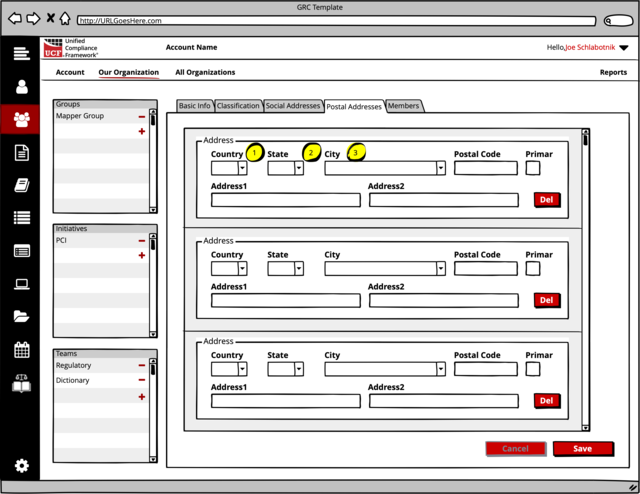
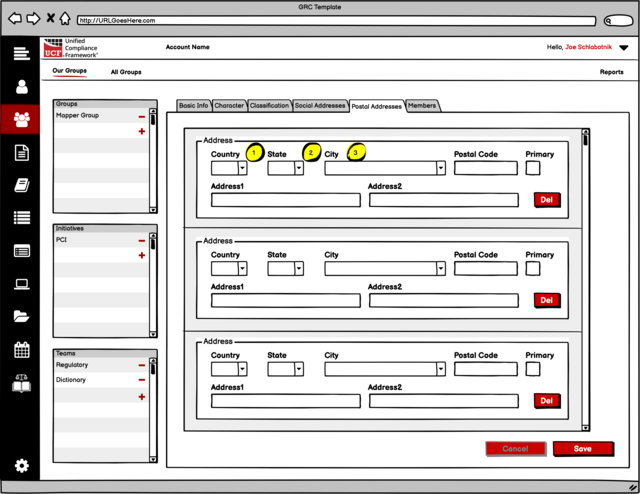
GitBook: [master] 5 pages and 23 assets modified

diff --git a/the-elements-of-compliance-for-developers/introduction/managing-groups.md b/the-elements-of-compliance-for-developers/introduction/managing-groups.md
@@ -1,0 +1,89 @@
+# Managing Groups
+
+All wireframes for this portion of the Compliance as Code project are available at:
+
+[https://balsamiq.cloud/srj76i4/pmjrirq](https://balsamiq.cloud/srj76i4/pmjrirq)
+
+The scope of this portion of the project is to allow _the administrator_ of a known account and to fill out additional information about the groups assigned to the organization and to other organizations.
+
+When filling out information about the _local_ groups _assigned to an account_, nothing will be filled out. For those Groups that are public, mof the information about the organization will be derived from the initial sign-up process. During the sign-up process, we query Clearbit and other APIs to glean information about the organization. That information is then returned through the API and should be displayed in the various fields.
+
+## Schema
+
+The schema for a group is listed here: [http://grcschema.org/](http://grcschema.org/Group)[Group](http://grcschema.org/Group).
+
+The ERD for working with a group looks like the diagram that follows:
+
+![Group ERD](../../.gitbook/assets/0%20%287%29.png)
+
+## Navigation
+
+Main navigation for group is accessed _below_ the group icon \(1\) as shown in the following diagram.
+
+Within the group section of the shell, sub-navigation must include capabilities to switch between _this account’s groups_ and _all groups_ \(2\).
+
+![Group subnavigation](../../.gitbook/assets/1%20%285%29.png)
+
+## Basic Info
+
+Basic information for the group will _only_ exist from the Clearbit and other queries that were performed when the group was created _if_ this is a public group and not a group associated with an account.
+
+![Basic Info](../../.gitbook/assets/2%20%285%29.png)
+
+1. **Core Metadata** should exist and is automatically created.
+
+2. **Legal Name** will exist _if Clearbit data was found_. If not, this should be disabled as account-related groups do not have a legal name.
+
+3. **Names** – this is an array for additional names. Additional names can be added to manually or they can be removed _for public groups_. Account-related groups are allowed _only a single name_.
+
+4. **Social Addresses** – these will exist if they were found in Clearbit data. If not, they can be manually added or removed _for public groups_. Account-related groups _do not have social addresses_ and therefore this should be disable for them.
+
+5. **Organizational Hierarchy** – How this is handled is different for public and account-related groups.
+
+* For public groups, a parent group can be selected _from existing public groups or organizations_.
+* For account-related groups, a parent group can be selected _from existing account-related groups_.
+
+Any child of _this_ organization will be listed in the subsidiary list.
+
+## Character
+
+_This only applies to account-related groups_. This should be disabled for public groups.
+
+![Group Character](../../.gitbook/assets/3%20%285%29.png)
+
+1. **Group Character settings** – these are options settings wherein the user selects a number from 1 to 10 for each of the four characterizations. Selections from 1-5 will create a _formal_ setting and 6-10 will create an _informal_ setting. There are images associated with each of the formal and informal settings for each of the four characterizations.
+
+2. **Organizational Character Index** – this is an optional field to be filled out for the _the account_. If it was filled out at the account level, that information will show up here.
+
+## Social Addresses
+
+_Some_ information about social addresses will be returned by Clearbit and others _if this is a public group_. The rest can be added manually _for public groups only_. If this is an account-related group _this should be disabled._
+
+![Social Information](../../.gitbook/assets/4%20%285%29.png)
+
+1. **Email Addresses** – only addresses _from the same domain as the organization, or those in the domains list_ can be added to the Email Address array. They can be removed at will.
+
+2. **Telephone Numbers** – can be manually added or removed at will.
+
+3. **Domains** – can be added and removed at will.
+
+## Postal Addresses
+
+The primary postal address was already created during the sign-up process _if this is a public group_. The rest can be added manually _for public groups only_. If this is an account-related group _this should be disabled._
+
+![Postal addresses](../../.gitbook/assets/5%20%283%29.png)
+
+When filled out, they must be filled out in the order of _country_, _state_, _city_, and then the rest of the information. This is because _country_, _state_, and _city_ are all pop-ups, one deriving its list from the other.
+
+1. **Country** **API** – [https://short.grcschema.org/API-Country List](https://short.grcschema.org/API-Country%20List)
+
+2. **State API** - [https://short.grcschema.org/API-State List](https://short.grcschema.org/API-State%20List3)
+
+[3](https://short.grcschema.org/API-State%20List3). **City API** - [https://short.grcschema.org/API-City List](https://short.grcschema.org/API-City%20List)
+
+## Members
+
+This is a listing of members. Members are added/managed through the Staff layout. Members can be navigated to by clicking on their name.
+
+![Group Members](../../.gitbook/assets/6%20%282%29.png)
+

diff --git a/the-elements-of-compliance-for-developers/introduction/managing-staff.md b/the-elements-of-compliance-for-developers/introduction/managing-staff.md
@@ -19,7 +19,7 @@ The schema for an account is found in multiple locations:
 
 The ERD for working with staff looks like the diagram that follows:
 
-![Staff ERD](../../.gitbook/assets/0%20%287%29.png)
+![Staff ERD](../../.gitbook/assets/0%20%288%29.png)
 
 ## Navigation
 
@@ -27,13 +27,13 @@ Main navigation for Staff is accessed by the Person icon \(1\) as shown in the f
 
 Within the Person section of the shell, sub-navigation must include capabilities to switch between _Staff_, _Contributors_, and _Reports_ as shown in \(2\) within the following diagram.
 
-![Sub navigation](../../.gitbook/assets/1%20%285%29.png)
+![Sub navigation](../../.gitbook/assets/1%20%286%29.png)
 
 ## Basic Info
 
 Basic information for each staff member comprises their primary name & email address \(mandatory\), and optional social addresses. The suggested layout for basic information follows:
 
-![Staff Basic Info](../../.gitbook/assets/2%20%287%29.png)
+![Staff Basic Info](../../.gitbook/assets/2%20%288%29.png)
 
 1. Navigation must be available for all staff members. In this example we’ve doubled navigation with the ability to add new staff members \(by entering them into the last blank field\) or deleting them through the minus “-“ button.
 
@@ -78,7 +78,7 @@ Therefore, two things must happen.
 
 a. The organization should establish a standard name configuration system for creating system names. The basic system can be as simple as the “name configurator” shown below:
 
-![](../../.gitbook/assets/3%20%286%29.png)
+![](../../.gitbook/assets/3%20%287%29.png)
 
 Sample name configurator
 
@@ -90,7 +90,7 @@ b. The name configuration standard _could_ produce duplicate results. Therefore,
 
 Staff names is an array of names. The person’s _primary_ name can be set from here or on the Basic Info layout.
 
-![Staff Names](../../.gitbook/assets/4%20%285%29.png)
+![Staff Names](../../.gitbook/assets/4%20%286%29.png)
 
 For all names, the First Name and the Last Name must be filled out.
 
@@ -100,7 +100,7 @@ There is a bit of a trick to this layout – a person’s name can either be in 
 
 There is a bit of a trick to this layout, as mentioned in Staff Names above. This layout is _only_ for names records that _only_ have the freeform\_name field filled out.
 
-![Aliases](../../.gitbook/assets/5%20%284%29.png)
+![Aliases](../../.gitbook/assets/5%20%285%29.png)
 
 1. This is the freeform name. The **Disambiguated System Name** is _always_ entered as a record for this user.
 
@@ -114,7 +114,7 @@ There is a bit of a trick to this layout, as mentioned in Staff Names above. Thi
 
 These are both arrays assigned to a staff member. Other than the primary email address, they are optional.
 
-![Emails &amp; Phone Numbers](../../.gitbook/assets/6%20%282%29.png)
+![Emails &amp; Phone Numbers](../../.gitbook/assets/6%20%283%29.png)
 
 The _calling codes_ for phone numbers can be automatically created using the callingcodes schema and API calls.
 

diff --git a/the-elements-of-compliance-for-developers/introduction/managing-organizations.md b/the-elements-of-compliance-for-developers/introduction/managing-organizations.md
@@ -14,7 +14,7 @@ The schema for an organization is listed here: [http://grcschema.org/Organizatio
 
 The ERD for working with an organization looks like the diagram that follows:
 
-![Organization ERD](../../.gitbook/assets/0%20%288%29.png)
+![Organization ERD](../../.gitbook/assets/0%20%289%29.png)
 
 ## Navigation
 
@@ -22,13 +22,13 @@ Main navigation for Organization is accessed by the group icon \(1\) as shown in
 
 Within the Organization section of the shell, sub-navigation must include capabilities to switch between _this account_, _this organization_, and _all organizations_ \(2\).
 
-![Organization subnavigation](../../.gitbook/assets/1%20%286%29.png)
+![Organization subnavigation](../../.gitbook/assets/1%20%287%29.png)
 
 ## Basic Info
 
 Basic information for the organization should already exist from the Clearbit and other queries that were performed when the organization was created.
 
-![Basic Info](../../.gitbook/assets/2%20%286%29.png)
+![Basic Info](../../.gitbook/assets/2%20%287%29.png)
 
 1. **Core Metadata** should exist and is automatically created.
 
@@ -44,13 +44,13 @@ Basic information for the organization should already exist from the Clearbit an
 
 For _now_, classification is automatically applied via the returned information from Clearbit and others. _At some time in the future_ we will create APIs for getting classification information for an organization.
 
-![Classification information](../../.gitbook/assets/3%20%285%29.png)
+![Classification information](../../.gitbook/assets/3%20%286%29.png)
 
 ## Social Addresses
 
 _Some_ information about social addresses will be returned by Clearbit and others. The rest can be added manually.
 
-![Social Information](../../.gitbook/assets/4%20%286%29.png)
+![Social Information](../../.gitbook/assets/4%20%287%29.png)
 
 1. **Email Addresses** – only addresses _from the same domain as the organization, or those in the domains list_ can be added to the Email Address array. They can be removed at will.
 
@@ -62,7 +62,7 @@ _Some_ information about social addresses will be returned by Clearbit and other
 
 The primary postal address was already created during the sign-up process. It can be changed here, as well as any additional addresses can be added here.
 
-![Postal addresses](../../.gitbook/assets/5%20%283%29.png)
+![Postal addresses](../../.gitbook/assets/5%20%284%29.png)
 
 When filled out, they must be filled out in the order of _country_, _state_, _city_, and then the rest of the information. This is because _country_, _state_, and _city_ are all pop-ups, one deriving its list from the other.
 

diff --git a/the-elements-of-compliance-for-developers/introduction/managing-accounts.md b/the-elements-of-compliance-for-developers/introduction/managing-accounts.md
@@ -25,13 +25,13 @@ Main navigation for accounts, organizations, groups, etc. is accessed by the Gro
 
 Within the Person section of the shell, sub-navigation must include capabilities to switch between _this_ account, _the account’s organization_, and all organizations \(2\).
 
-![Account subnavigation](../../.gitbook/assets/1%20%287%29.png)
+![Account subnavigation](../../.gitbook/assets/1%20%288%29.png)
 
 ## Basic Info
 
 Basic information for the account isn’t much. Just the account name \(which should already exist\), the meta data \(which also should exist\), and the optional description and telephone numbers.
 
-![Account Basic Info](../../.gitbook/assets/2%20%285%29.png)
+![Account Basic Info](../../.gitbook/assets/2%20%286%29.png)
 
 ### Deleting the account
 
@@ -45,7 +45,7 @@ If _any_ user disapproves of being deleted, the _account cannot be deleted_.
 
 The primary postal address was already created during the sign-up process. It can be changed here, as well as any additional addresses can be added here.
 
-![Postal addresses](../../.gitbook/assets/3%20%287%29.png)
+![Postal addresses](../../.gitbook/assets/3%20%288%29.png)
 
 When filled out, they must be filled out in the order of _country_, _state_, _city_, and then the rest of the information. This is because _country_, _state_, and _city_ are all pop-ups, one deriving its list from the other.
 

diff --git a/SUMMARY.md b/SUMMARY.md
@@ -60,4 +60,5 @@
   * [Managing Staff](the-elements-of-compliance-for-developers/introduction/managing-staff.md)
   * [Managing Accounts](the-elements-of-compliance-for-developers/introduction/managing-accounts.md)
   * [Managing Organizations](the-elements-of-compliance-for-developers/introduction/managing-organizations.md)
+  * [Managing Groups](the-elements-of-compliance-for-developers/introduction/managing-groups.md)
 
